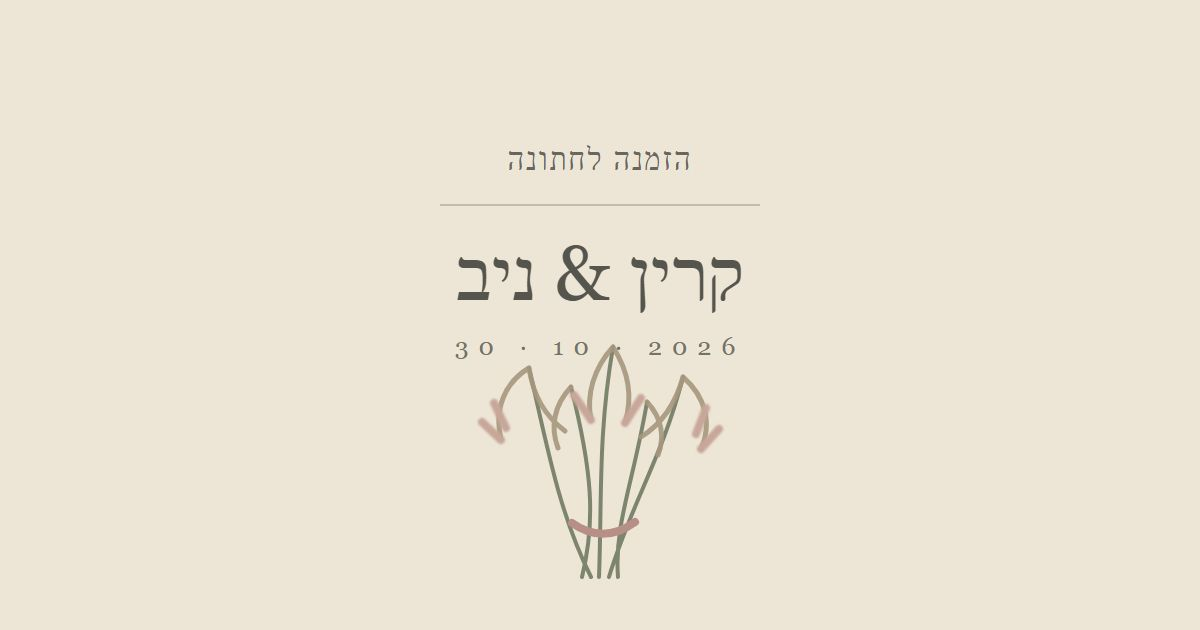
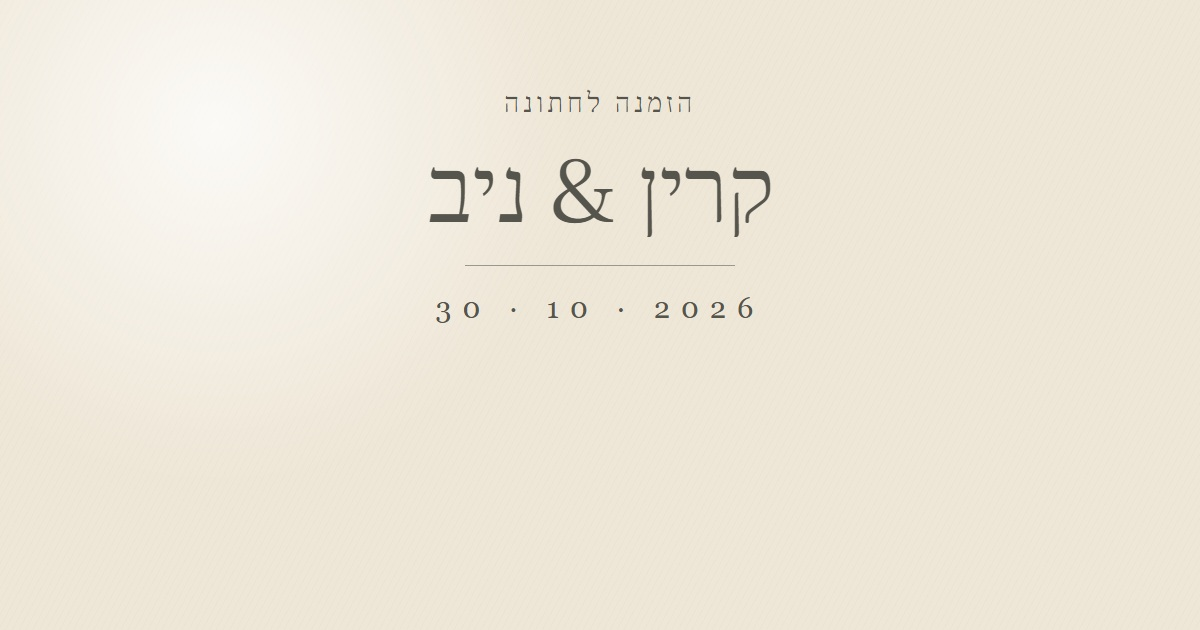
fix mobile sharing and calendar

diff --git a/src/App.tsx b/src/App.tsx
@@ -1,4 +1,4 @@
-import { useEffect, useMemo, useRef, useState } from 'react'
+import { useEffect, useRef, useState } from 'react'
 
 const WEDDING_DATE = new Date('2026-10-30T11:00:00+02:00')
 
@@ -19,30 +19,6 @@ function getCountdown(): Countdown {
     seconds: Math.floor((remaining / 1_000) % 60),
     complete: remaining === 0,
   }
-}
-
-function createCalendarUrl(): string {
-  const calendar = [
-    'BEGIN:VCALENDAR',
-    'VERSION:2.0',
-    'PRODID:-//Karin and Niv//Wedding Invitation//HE',
-    'CALSCALE:GREGORIAN',
-    'METHOD:PUBLISH',
-    'BEGIN:VEVENT',
-    'UID:karin-niv-20261030@wedding.local',
-    'DTSTAMP:20260924T171000Z',
-    'DTSTART:20261030T090000Z',
-    'DTEND:20261030T140000Z',
-    'SUMMARY:החתונה של קרין וניב',
-    'LOCATION:5.91 מתחם אירועים על הים\\, נתניה',
-    'DESCRIPTION:קבלת פנים 11:00 | חופה וקידושין 12:00',
-    'STATUS:CONFIRMED',
-    'TRANSP:OPAQUE',
-    'END:VEVENT',
-    'END:VCALENDAR',
-  ].join('\r\n')
-
-  return `data:text/calendar;charset=utf-8,${encodeURIComponent(`\ufeff${calendar}\r\n`)}`
 }
 
 function ScratchReveal({ onReveal }: { onReveal: () => void }) {
@@ -181,7 +157,7 @@ function App() {
   const [isOpen, setIsOpen] = useState(false)
   const [isRevealed, setIsRevealed] = useState(false)
   const [countdown, setCountdown] = useState(getCountdown)
-  const calendarUrl = useMemo(createCalendarUrl, [])
+  const calendarUrl = `${import.meta.env.BASE_URL}karin-niv-wedding.ics`
 
   useEffect(() => {
     const timer = window.setInterval(() => setCountdown(getCountdown()), 1000)
@@ -207,7 +183,6 @@ function App() {
           <a
             className="calendar-button"
             href={calendarUrl}
-            download="karin-and-niv-wedding.ics"
           >
             <svg viewBox="0 0 24 24" aria-hidden="true">
               <path d="M7 2v3M17 2v3M3.5 9h17M5 4h14a2 2 0 0 1 2 2v14a2 2 0 0 1-2 2H5a2 2 0 0 1-2-2V6a2 2 0 0 1 2-2Z" />
@@ -255,16 +230,7 @@ function App() {
           <div className="wax-seal">
             <span>K</span><i>&</i><span>N</span>
           </div>
-          <svg className="seal-copy" viewBox="0 0 300 300" aria-hidden="true">
-            <defs>
-              <path id="seal-copy-path" d="M 36 184 A 122 122 0 0 0 264 184" />
-            </defs>
-            <text>
-              <textPath href="#seal-copy-path" startOffset="50%" textAnchor="middle">
-                לחצו כאן לפתיחת ההזמנה
-              </textPath>
-            </text>
-          </svg>
+          <span className="seal-copy" dir="rtl">לחצו כאן לפתיחת ההזמנה</span>
         </div>
       </div>
     </main>

diff --git a/src/styles.css b/src/styles.css
@@ -299,18 +299,17 @@ a,
 
 .seal-copy {
   position: absolute;
-  inset: 0;
-  width: 100%;
-  height: 100%;
-  overflow: visible;
-  animation: hint-breathe 2.2s ease-in-out infinite;
-  pointer-events: none;
-}
-
-.seal-copy text {
-  fill: #96752f;
+  top: 245px;
+  left: 50%;
+  width: max-content;
+  color: #96752f;
   font: 300 18px 'Frank Ruhl Libre', Georgia, serif;
   letter-spacing: 1px;
+  direction: rtl;
+  unicode-bidi: isolate;
+  transform: translateX(-50%);
+  animation: hint-breathe 2.2s ease-in-out infinite;
+  pointer-events: none;
 }
 
 @keyframes hint-breathe {
